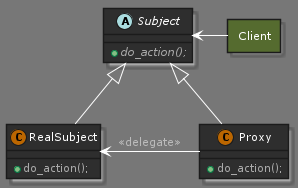
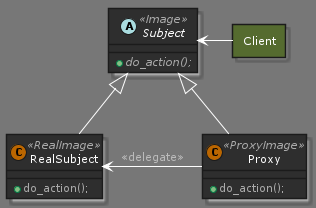
add proxy

Changed region(s): [[0.0, 0.0266, 0.9966, 0.984]]

diff --git a/facade/main.cpp b/facade/main.cpp
@@ -1,5 +1,4 @@
 #include <iostream>
-#include "proxy_image.hpp"
 
 int main(int argc, char** argv) {
     std::cout << "-------------------------------------------------------------------" << std::endl;
@@ -8,14 +7,6 @@ int main(int argc, char** argv) {
     std::cout << "Proxy Design Pattern means ‘in place of’, representing’ or ‘in place of’ or \\
     \n\r‘on behalf of’ something, to restrict the access to resources." << std::endl;
     std::cout << "-------------------------------------------------------------------" << std::endl;
-
-    std::string image_name = "nature.jpg";
-    Image *img = new ProxyImage(image_name);
-
-    img->display();
-    img->display();
-    img->display();
-    img->display();
 
     return 0;
 }

diff --git a/proxy/real_image.hpp b/proxy/real_image.hpp
@@ -1,0 +1,23 @@
+#ifndef _REAL_IMAGE_HPP_
+#define _REAL_IMAGE_HPP_
+#include <iostream>
+#include "image.hpp"
+
+class RealImage: public Image {
+    private:
+        std::string filename;
+    public:
+        RealImage(std::string &image_name) {
+            this->filename = image_name;
+            this->load_image();
+        }
+
+        void load_image() {
+            std::cout << this->filename << " loading..." << std::endl;
+        }
+        void display() {
+            std::cout << this->filename << " displaying..." << std::endl;
+        }
+};
+
+#endif

diff --git a/proxy/proxy_image.hpp b/proxy/proxy_image.hpp
@@ -1,0 +1,20 @@
+#ifndef _PROXY_IMAGE_HPP_
+#define _PROXY_IMAGE_HPP_
+#include <iostream>
+#include "real_image.hpp"
+
+class ProxyImage: public Image {
+    private:
+        RealImage *real;
+    public:
+        ProxyImage(std::string &image_name) {
+            real = new RealImage(image_name);
+        }
+
+        void display() {
+            real->display();
+        }
+};
+
+
+#endif

diff --git a/proxy/image.hpp b/proxy/image.hpp
@@ -1,0 +1,11 @@
+#ifndef _IMAGE_HPP_
+#define _IMAGE_HPP_
+#include <iostream>
+
+
+class Image {
+    public:
+        virtual void display() = 0;
+};
+
+#endif
